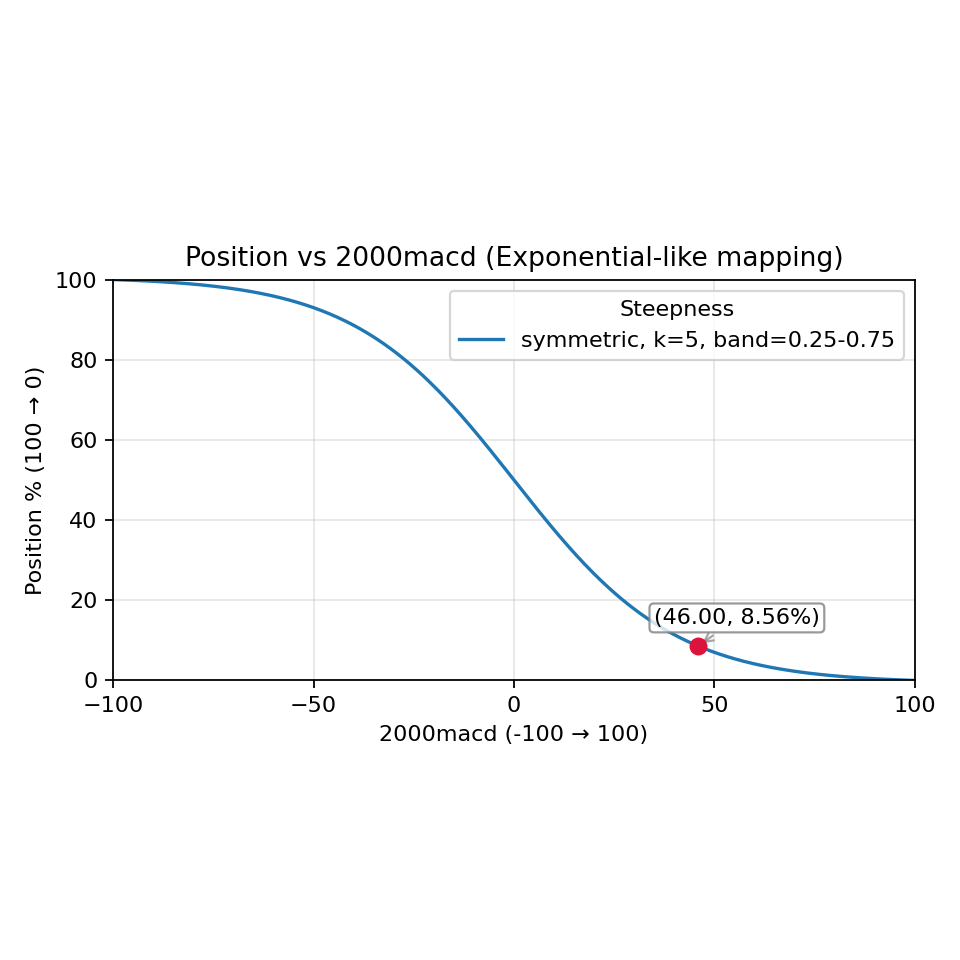
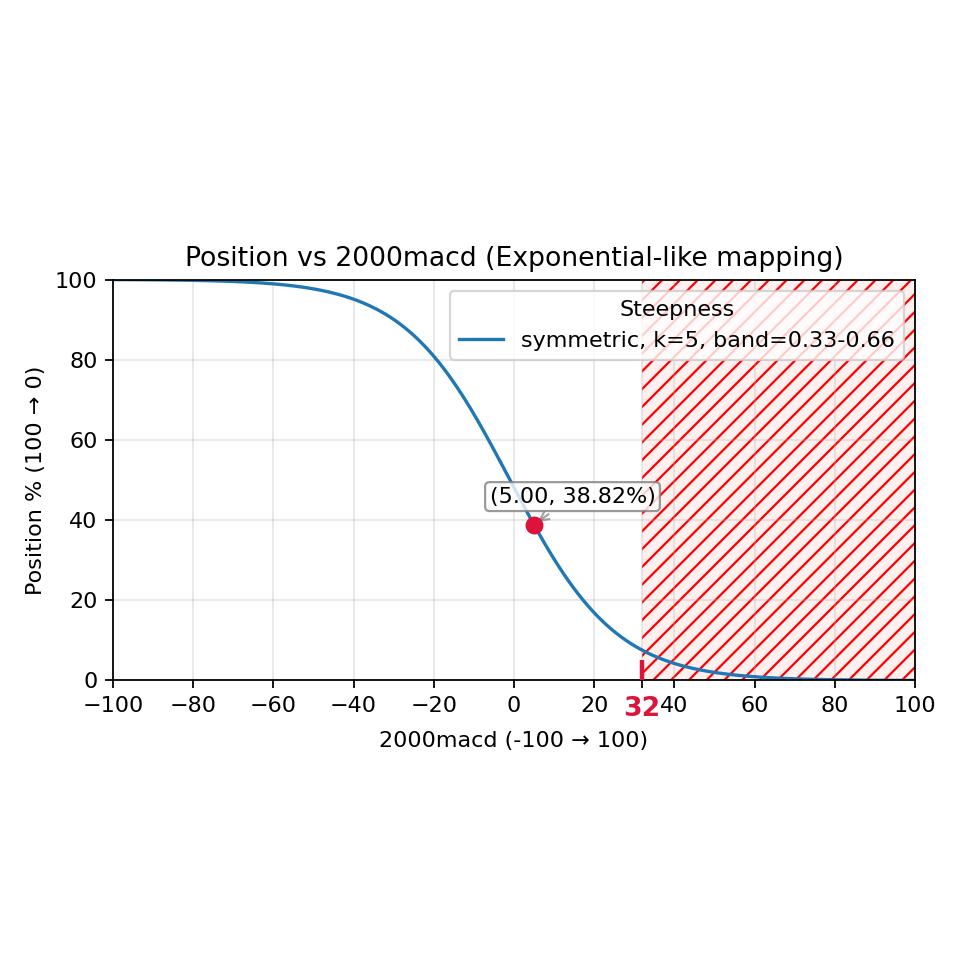
Refactor stk_carbin.py to add input timeout feature and create requirements.txt for dependencies

Changed region(s): [[0.2812, 0.2812, 0.9688, 0.7812], [0.1875, 0.2812, 0.4688, 0.4062], [0.1875, 0.7188, 0.2188, 0.75]]

diff --git a/stk_carbin.py b/stk_carbin.py
@@ -31,12 +31,34 @@ from __future__ import annotations
 import argparse
 import math
 import os
+import signal
 from typing import Iterable, List
 
 try:
 	import numpy as np
 except Exception:  # numpy may be missing; we'll fallback to pure python arrays
 	np = None  # type: ignore
+
+
+def timeout_input(prompt: str, timeout: int = 10, default_value: str = "") -> str:
+	"""Input with timeout. Returns default_value if timeout occurs."""
+	def timeout_handler(signum, frame):
+		raise TimeoutError()
+	
+	# Set up the signal handler
+	old_handler = signal.signal(signal.SIGALRM, timeout_handler)
+	signal.alarm(timeout)
+	
+	try:
+		result = input(prompt)
+		signal.alarm(0)  # Cancel the alarm
+		return result
+	except (TimeoutError, KeyboardInterrupt):
+		signal.alarm(0)  # Cancel the alarm
+		print(f"\nTimeout! Using default value: {default_value}")
+		return default_value
+	finally:
+		signal.signal(signal.SIGALRM, old_handler)  # Restore old handler
 
 
 def _pos_symmetric(t: float, k: float, band: tuple[float, float] | None = None) -> float:
@@ -320,7 +342,7 @@ def main() -> None:
 	mark_value: float | None = args.mark
 	if args.sample is None and mark_value is None:
 		try:
-			inp = input("Enter 2000macd value to mark (-100..100), or leave blank to skip: ").strip()
+			inp = timeout_input("Enter 2000macd value to mark (-100..100), or leave blank to skip: ", timeout=10, default_value="46").strip()
 			if inp:
 				mark_value = float(inp)
 		except Exception:
